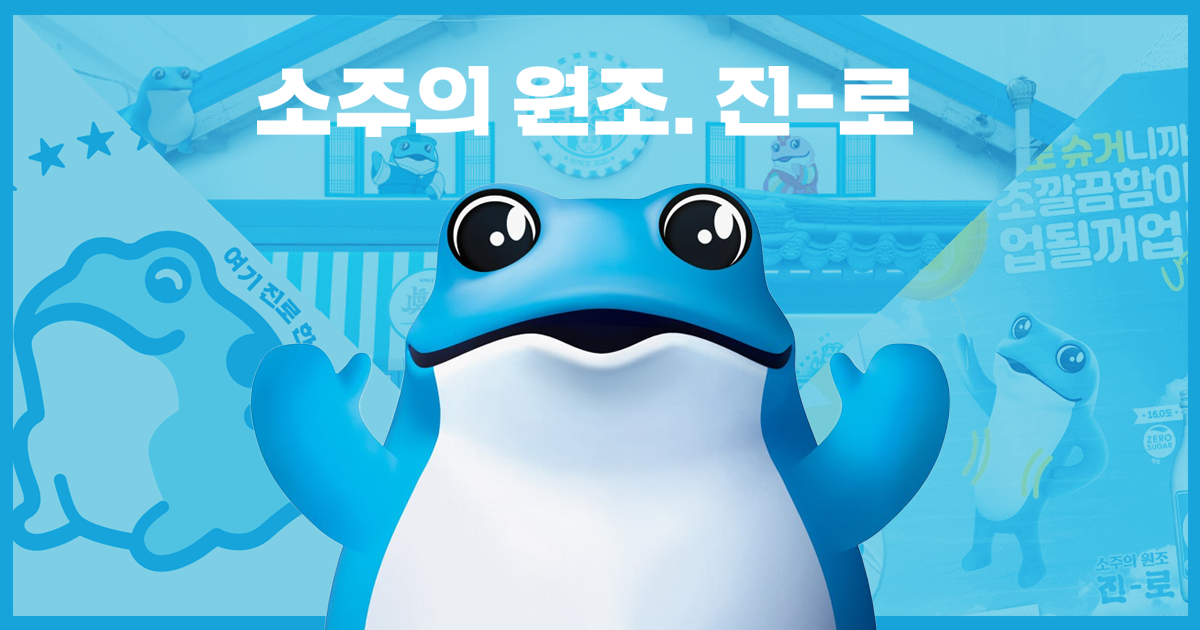
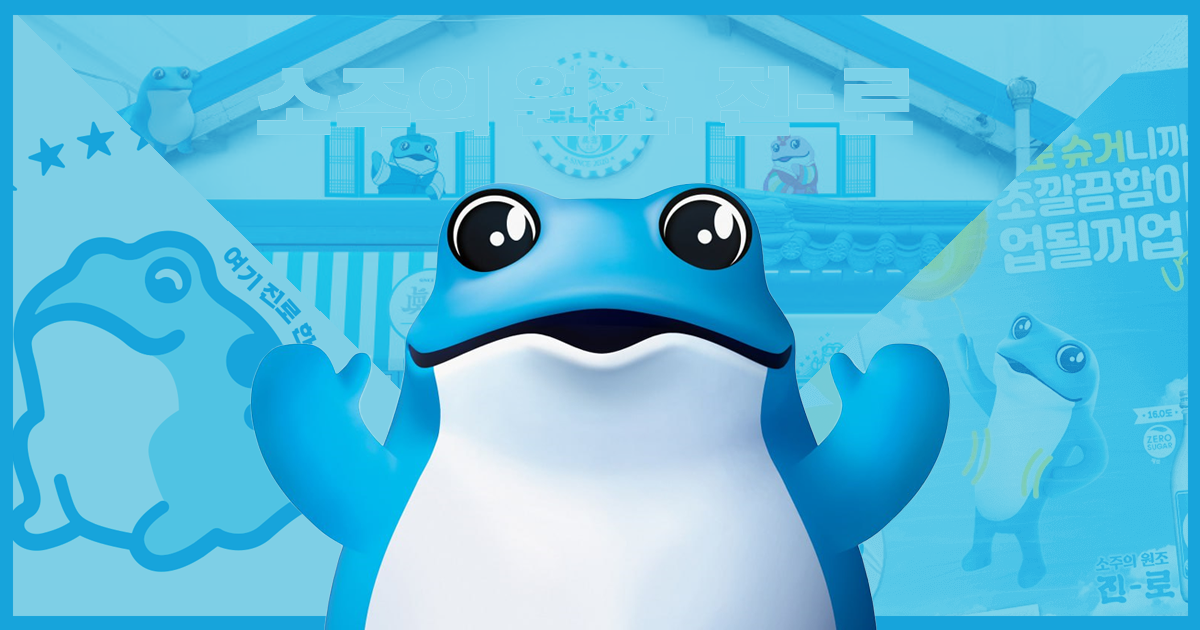
feat:main두꺼비 흰글씨 삭제

Changed region(s): [[0.2158, 0.0905, 0.7708, 0.2413]]

diff --git a/index.html b/index.html
@@ -180,7 +180,7 @@ c6.177,6.18,9.262,14.271,9.262,22.366C354.708,234.018,351.617,242.115,345.441,24
   <section class="u-align-center u-clearfix u-grey-5 u-section-3" id="carousel_e604" data-href="game.html">
     <div class="u-clearfix u-sheet u-sheet-1">
       <h2 class="u-text u-text-1">#나의 취향 찾기</h2>
-      <p class="u-text u-text-palette-5-dark-2 u-text-2"> 재미있는 테스트로 나에게 딱! 맞는 술을 골라보세요<br />폭탄주 제작 전문가 20년 경력의 1조가<br />고안한 나만의 술술~ 테스트 </p> <a href="game.html"
+      <p class="u-text u-text-palette-5-dark-2 u-text-2"> 재미있는 테스트로 나에게 딱! 맞는 술을 골라보세요<br />폭탄주 제작 전문가 20년 경력의 최박사님이<br />고안한 나만의 술술~ 테스트 </p> <a href="game.html"
         class="u-btn u-button-style u-color-scheme-u11 u-color-style-multicolor-1 u-gradient u-none u-btn-1"
         target="_blank">TEST START</a>
     </div>
